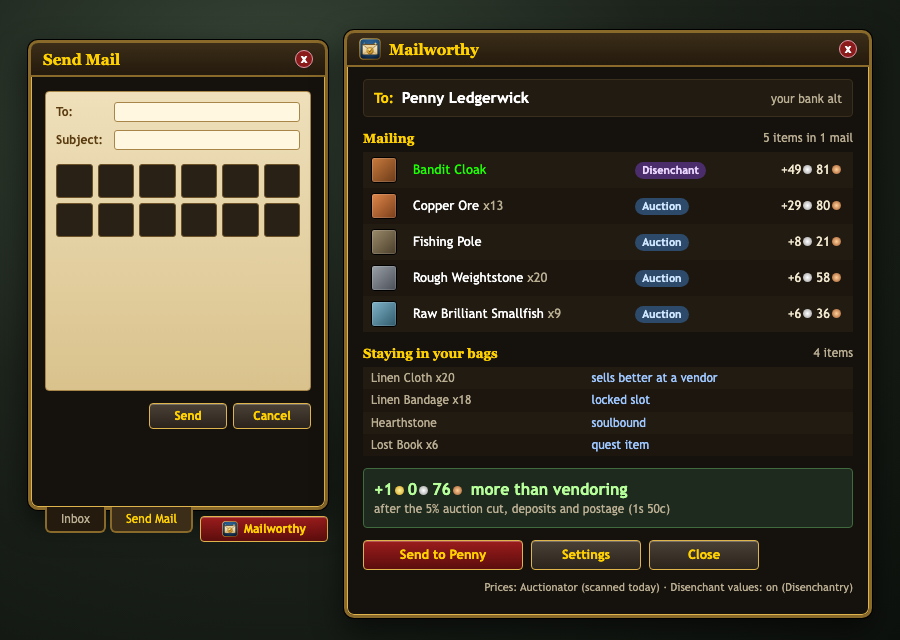
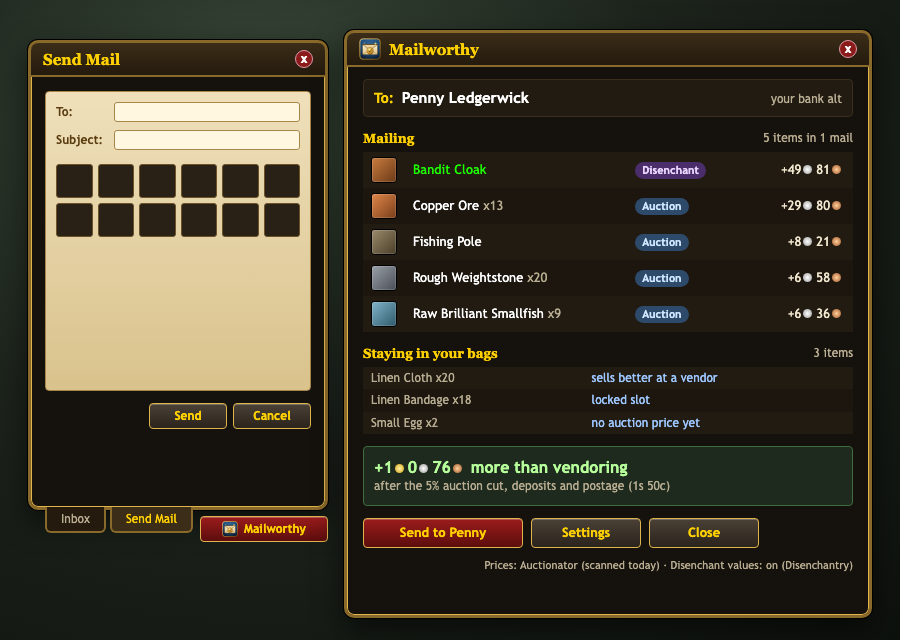
feat: plan the bank alt view - fresh-price tags, original reason, summary
On the bank alt, bag slots get AH / DE / V tags recomputed with that
character's own Auctionator data; tooltips show the fresh verdict and why the
item was mailed (recorded account-wide at send time); a summary lists what to
list, disenchant and vendor. Plan section + Phase 4c, description section, and
media/bank-alt-prototype.png for the gallery. The mailbox mockup's kept list
drops soulbound / quest items (they can't be mailed anyway).

Changed region(s): [[0.4044, 0.6562, 0.9644, 0.9375]]

diff --git a/media/bank-alt-prototype.html b/media/bank-alt-prototype.html
@@ -1,0 +1,117 @@
+<!doctype html>
+<html lang="en">
+<head>
+<meta charset="utf-8">
+<title>Mailworthy bank alt prototype</title>
+<!-- Prototype of the bank alt view: bag slots tagged with their best use,
+     recomputed with the bank alt's own (fresh) auction data, and a tooltip with
+     the fresh verdict next to the reason the item was mailed. Rendered to
+     media/bank-alt-prototype.png by tools/build-icons.sh. Names are made up. -->
+<style>
+  :root { --gold: #ffd100; --text: #f2e8d0; --dim: #b9ad92; --edge: #8a6a2a; --edge-hi: #e0b44c; --panel: #15110c; }
+  * { box-sizing: border-box; }
+  html, body { margin: 0; width: 900px; height: 640px; overflow: hidden; }
+  body { font: 13px/1.35 "Trebuchet MS", "Segoe UI", Arial, sans-serif; color: var(--text);
+    background: radial-gradient(ellipse at 70% 30%, #3a3a4a 0%, #1c1c26 45%, #0c0c12 100%); }
+  .frame { position: absolute; background: var(--panel); border: 3px solid var(--edge); border-radius: 10px;
+    box-shadow: 0 0 0 1px #000, inset 0 0 0 1px var(--edge-hi), 0 12px 30px rgba(0,0,0,.6); }
+  .title { height: 34px; display: flex; align-items: center; gap: 8px; padding: 0 12px;
+    font: bold 15px Georgia, serif; color: var(--gold); background: linear-gradient(#3b2d18, #241a0d);
+    border-bottom: 2px solid var(--edge); border-radius: 7px 7px 0 0; }
+  .title .x { margin-left: auto; width: 18px; height: 18px; border-radius: 50%; background: #8b1a1a; color: #fff;
+    font: bold 12px Arial; display: grid; place-items: center; border: 1px solid #d9a; }
+  .bags { left: 30px; top: 70px; width: 470px; height: 300px; }
+  .grid { display: grid; grid-template-columns: repeat(10, 40px); gap: 4px; padding: 14px; }
+  .slot { position: relative; width: 40px; height: 40px; border-radius: 4px; background: #241d14;
+    border: 1px solid #5a4422; box-shadow: inset 0 0 6px #000; }
+  .slot .ic { position: absolute; inset: 3px; border-radius: 3px; box-shadow: inset 0 0 0 1px rgba(255,255,255,.15); }
+  .slot .n { position: absolute; right: 3px; bottom: 1px; font: bold 11px Arial; color: #fff; text-shadow: 0 0 2px #000, 0 0 2px #000; }
+  .slot.q2 { border-color: #1eff00; }
+  .slot.focus { outline: 2px solid #ffd100; outline-offset: 1px; }
+  .tag { position: absolute; left: -2px; top: -4px; padding: 0 3px; height: 13px; border-radius: 3px;
+    font: bold 9px/13px Arial; letter-spacing: .3px; border: 1px solid #000; }
+  .tag.ah { background: #2d6bb0; color: #fff; } .tag.de { background: #7a3fb5; color: #fff; }
+  .tag.v { background: #4a4036; color: #ffd36b; }
+  .money { font: inherit; }
+  .money i { display: inline-block; width: 9px; height: 9px; border-radius: 50%; margin: 0 3px 0 2px; }
+  .g { background: radial-gradient(#fff3a0, #d4a017); } .s { background: radial-gradient(#fff, #9a9a9a); }
+  .c { background: radial-gradient(#ffcf9a, #a0582a); }
+  .bagsfoot { position: absolute; left: 14px; right: 14px; bottom: 10px; display: flex; justify-content: space-between;
+    color: var(--dim); font-size: 12px; }
+  .legend { display: flex; gap: 12px; align-items: center; }
+  .legend .tag { position: static; display: inline-block; margin-right: 4px; }
+
+  .tip { position: absolute; left: 520px; top: 60px; width: 350px; padding: 10px 12px;
+    background: rgba(8, 10, 28, .96); border: 2px solid #8f8fa8; border-radius: 6px; box-shadow: 0 8px 24px rgba(0,0,0,.6); }
+  .tip .name { font-size: 15px; color: #fff; margin-bottom: 2px; }
+  .tip .line { color: #fff; }
+  .tip .row { display: flex; justify-content: space-between; }
+  .tip .gray { color: #9d9d9d; }
+  .tip hr { border: 0; border-top: 1px solid #3a3a55; margin: 8px 0; }
+  .mw { color: var(--gold); font-weight: bold; display: flex; align-items: center; gap: 6px; }
+  .mw img { width: 16px; height: 16px; }
+  .chip { display: inline-block; padding: 0 7px; border-radius: 9px; font-size: 11px; font-weight: bold; }
+  .chip.v { background: #4a4036; color: #ffd36b; } .chip.ah { background: #2d4a6b; color: #cfe6ff; }
+  .tip .note { color: #c8c8d8; font-size: 12px; }
+  .tip .was { color: #9ec7ff; font-size: 12px; margin-top: 4px; }
+
+  .summary { left: 30px; top: 400px; width: 470px; height: 200px; }
+  .summary .content { padding: 12px 16px; }
+  .summary h3 { margin: 0 0 8px; font: bold 13px Georgia, serif; color: var(--gold); }
+  .summary .r { display: flex; justify-content: space-between; align-items: center; padding: 6px 8px; border-radius: 4px; }
+  .summary .r:nth-child(odd) { background: #221b12; }
+  .summary .r .chip { margin-right: 8px; }
+</style>
+</head>
+<body>
+  <div class="frame bags">
+    <div class="title"><span>Combined Backpack</span><span class="x">x</span></div>
+    <div class="grid">
+      <div class="slot q2"><div class="ic" style="background:linear-gradient(135deg,#c97b3d,#6b3a18)"></div><span class="tag de">DE</span></div>
+      <div class="slot"><div class="ic" style="background:linear-gradient(135deg,#e0874a,#7a3e1a)"></div><span class="n">13</span><span class="tag ah">AH</span></div>
+      <div class="slot focus"><div class="ic" style="background:linear-gradient(135deg,#9a8a6a,#4a3e2a)"></div><span class="tag v">V</span></div>
+      <div class="slot"><div class="ic" style="background:linear-gradient(135deg,#9aa0a8,#4a4f57)"></div><span class="n">20</span><span class="tag ah">AH</span></div>
+      <div class="slot"><div class="ic" style="background:linear-gradient(135deg,#7fb3c9,#2f5a6b)"></div><span class="n">9</span><span class="tag ah">AH</span></div>
+      <div class="slot q2"><div class="ic" style="background:linear-gradient(135deg,#6b8f3d,#2f4a18)"></div><span class="tag de">DE</span></div>
+      <div class="slot"><div class="ic" style="background:linear-gradient(135deg,#d8d0b8,#7a7258)"></div><span class="n">20</span><span class="tag ah">AH</span></div>
+      <div class="slot"></div><div class="slot"></div><div class="slot"></div>
+      <div class="slot"><div class="ic" style="background:linear-gradient(135deg,#b8b8c8,#58586a)"></div><span class="n">7</span><span class="tag ah">AH</span></div>
+      <div class="slot"><div class="ic" style="background:linear-gradient(135deg,#a07850,#503418)"></div><span class="n">4</span></div>
+      <div class="slot"></div><div class="slot"></div><div class="slot"></div><div class="slot"></div><div class="slot"></div>
+      <div class="slot"></div><div class="slot"></div><div class="slot"></div>
+      <div class="slot"></div><div class="slot"></div><div class="slot"></div><div class="slot"></div><div class="slot"></div>
+      <div class="slot"></div><div class="slot"></div><div class="slot"></div><div class="slot"></div><div class="slot"></div>
+    </div>
+    <div class="bagsfoot">
+      <div class="legend"><span><span class="tag ah">AH</span>Auction</span><span><span class="tag de">DE</span>Disenchant</span>
+        <span><span class="tag v">V</span>Vendor now</span></div>
+      <span class="money">2<i class="g"></i>14<i class="s"></i>60<i class="c"></i></span>
+    </div>
+  </div>
+
+  <div class="tip">
+    <div class="name">Fishing Pole</div>
+    <div class="row line"><span>Two-Hand</span><span>Fishing Pole</span></div>
+    <div class="line gray">Requires Fishing (1)</div>
+    <div class="line">Sell Price: <span class="money">4<i class="c"></i></span></div>
+    <hr>
+    <div class="mw"><img src="logo-512.png" alt="">Mailworthy <span class="chip v">Vendor now</span></div>
+    <div class="note">Auction price today: <span class="money">1<i class="s"></i>10<i class="c"></i></span> (scanned 2 hours ago).
+      After the 5% cut and the deposit that's under your 5s minimum gain, so sell it to a vendor.</div>
+    <div class="was">Mailed for: <span class="chip ah">Auction</span> +8s 21c, Oct 13, from Tilda Quickfoot</div>
+  </div>
+
+  <div class="frame summary">
+    <div class="title"><span>Mailworthy: on your bank alt</span><span class="x">x</span></div>
+    <div class="content">
+      <h3>With today's prices</h3>
+      <div class="r"><span><span class="chip ah">Auction</span>5 stacks to list</span>
+        <span class="money">+1<i class="g"></i>62<i class="s"></i>04<i class="c"></i></span></div>
+      <div class="r"><span><span class="chip" style="background:#4b2d6b;color:#ead7ff">Disenchant</span>2 items</span>
+        <span class="money">+98<i class="s"></i>40<i class="c"></i></span></div>
+      <div class="r"><span><span class="chip v">Vendor now</span>1 item (was Auction)</span>
+        <span class="money">4<i class="c"></i></span></div>
+    </div>
+  </div>
+</body>
+</html>

diff --git a/media/curseforge-description.html b/media/curseforge-description.html
@@ -27,6 +27,14 @@
 </ul>
 <p><strong>Without Auctionator</strong> there are no prices to compare, so Mailworthy keeps it simple: it mails every tradeable <strong>white (common)</strong> item that isn't in a locked slot. Grey junk stays for the vendor.</p>
 
+<h2>On your bank alt</h2>
+<p>When you log in to your bank alt, every item Mailworthy sent shows what it's for, worked out again with <strong>today's auction prices</strong> on that character:</p>
+<ul>
+<li>a small tag on the bag slot: <strong>AH</strong> to list on the auction house, <strong>DE</strong> to disenchant, or <strong>V</strong> if it's now better sold to a vendor;</li>
+<li>a tooltip line with today's price and why it was mailed in the first place, so you can see when the market has moved;</li>
+<li>a summary of what to list, what to disenchant and what to vendor.</li>
+</ul>
+
 <h2>Lock the slots you want to keep</h2>
 <ul>
 <li><strong>Mouse:</strong> Alt+click a bag item to lock or unlock its slot.</li>

diff --git a/media/ui-prototype.html b/media/ui-prototype.html
@@ -135,12 +135,11 @@
           <td class="gain money">+6<i class="s"></i>36<i class="c"></i></td></tr>
       </table>
 
-      <h3>Staying in your bags <small>4 items</small></h3>
+      <h3>Staying in your bags <small>3 items</small></h3>
       <table class="kept">
         <tr><td>Linen Cloth x20</td><td class="tag">sells better at a vendor</td></tr>
         <tr><td>Linen Bandage x18</td><td class="tag">locked slot</td></tr>
-        <tr><td>Hearthstone</td><td class="tag">soulbound</td></tr>
-        <tr><td>Lost Book x6</td><td class="tag">quest item</td></tr>
+        <tr><td>Small Egg x2</td><td class="tag">no auction price yet</td></tr>
       </table>
 
       <div class="total">

diff --git a/docs/PLAN.md b/docs/PLAN.md
@@ -241,6 +241,32 @@ preview shows which source priced each line.
   (`C_Container.SortBags` exists) and looting move items, so the never-mail
   item list covers "always keep this item".
 
+## Bank alt view (operator, 2026-10-13)
+
+On the bank alt, Mailworthy shows what each item is for, **recomputed with the
+bank alt's own, fresh Auctionator data** ([media/bank-alt-prototype.png](../media/bank-alt-prototype.png)):
+
+- **Tags on bag slots:** a small corner badge, **AH** (Auction, blue), **DE**
+  (Disenchant, purple) or **V** (Vendor now, grey/gold), the same colours as the
+  preview's chips. Drawn like the lock border: textures and a font string on the
+  game's bag buttons, refreshed by the `UpdateItems` post-hooks and on
+  `AUCTIONATOR` price updates (`Auctionator.API.v1.RegisterForDBUpdate`).
+- **Tooltip lines:** the fresh verdict with today's price and its age, and the
+  original reason: "Mailed for: Auction +8s 21c, Oct 13, from <main>". If the
+  market moved (e.g. now better at a vendor), both are visible.
+- **Summary** (the Mailworthy window when opened on the bank alt): items to list
+  with the expected gain, items to disenchant, items now better at a vendor.
+- **Data:** when mail is sent, Mailworthy records per item ID the reason, the gain
+  at send time, the date and the sender in `MailworthyDB.mailed` (account-wide,
+  capped and expired after 30 days). The verdict itself is always recomputed with
+  the same decision rule on the bank alt; without Auctionator there it shows
+  only the original reason.
+- **Where tags show:** on the bank alt by default (any character that is someone's
+  configured bank alt); a setting shows them on every character.
+- **Taint:** textures / font strings on bag buttons and tooltip lines only (tooltip
+  lines are what Auctionator itself adds; no blocks were ever blamed on it).
+  Nothing is written into Blizzard tables.
+
 ## Release and CurseForge
 
 How to publish, the assets (icon, description, screenshot) and the checklist for
@@ -277,6 +303,7 @@ realm+faction, name history, settings, never-mail list, blocked actions) and
 | **2 - Settings + characters** | settings panel, minimap button, bank alt picker with history and auto-complete, disenchant checkbox default, thresholds, fees | bank alt survives `/reload` and relog (the beta's SavedVariables bug), and every settings control works with the gamepad alone |
 | **3 - Mailbox + mailing** | mailbox button (opens settings when not set up), preview with recipient + Settings button, one mail per press, gamepad binding, then chaining if allowed | 30+ items reach the bank alt in under 3 presses, with nothing locked, bound or unpriced sent; works with ForeverMail installed |
 | **4 - Slot locks** | lock grid in settings, never-mail list from the preview, bag overlay | locked slots never appear in the preview's mail list |
+| **4c - Bank alt view** | tags on the bank alt's bag slots (recomputed with fresh prices), tooltip lines with the original reason, summary window | tags match a hand calculation with fresh prices; a changed verdict shows both |
 | **5 - Polish** | tooltip line ("Mailworthy: AH +2g 10s vs vendor"), release on GitHub + CurseForge (Forever flavor) | tagged release installs cleanly |
 
 ## Beta unknowns

diff --git a/docs/CURSEFORGE.md b/docs/CURSEFORGE.md
@@ -13,8 +13,8 @@ the repo has an API token.
 | Project avatar (400x400) | `media/logo-400.png` (512x512: `media/logo-512.png`) | CurseForge project avatar |
 | In-game icon (AddOns list) | `Mailworthy/Textures/Icon.tga` (64x64, uncompressed 32-bit) | shipped; `## IconTexture` in the `.toc` |
 | Description | `media/curseforge-description.html` | project description (paste into the editor's HTML/source view) |
-| Screenshot | `media/ui-prototype.png` (the planned release UI) | project images / gallery |
-| Icon source | `media/logo.svg` | `tools/build-icons.sh` rebuilds the PNGs, the TGA and the screenshot |
+| Screenshots | `media/ui-prototype.png` (the mailbox window) and `media/bank-alt-prototype.png` (bank alt tags + tooltip), both the planned release UI | project images / gallery |
+| Icon source | `media/logo.svg` | `tools/build-icons.sh` rebuilds the PNGs, the TGA and the screenshots |
 
 Short summary for the project card: **"One click at the mailbox sends everything
 worth selling to your bank alt. Vendor the rest."**
